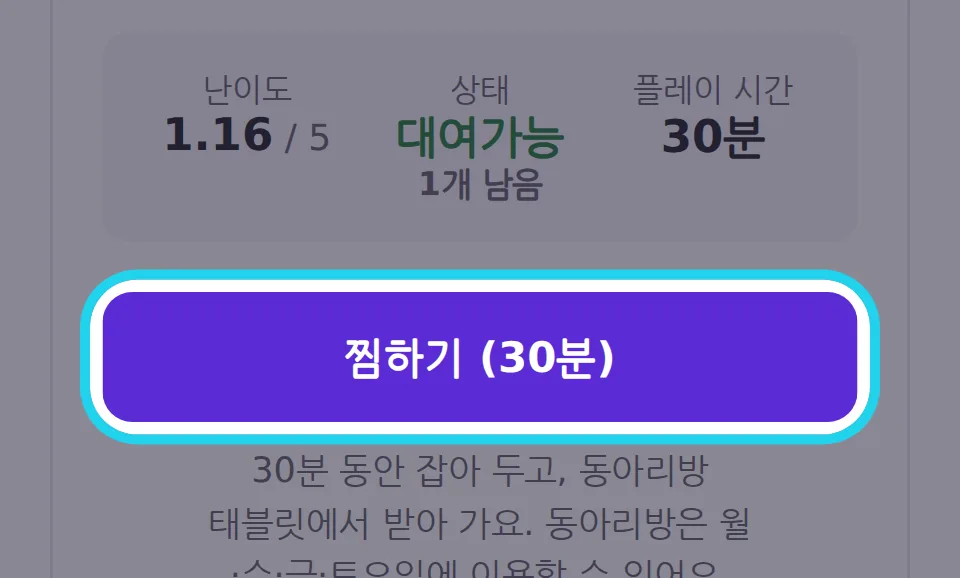
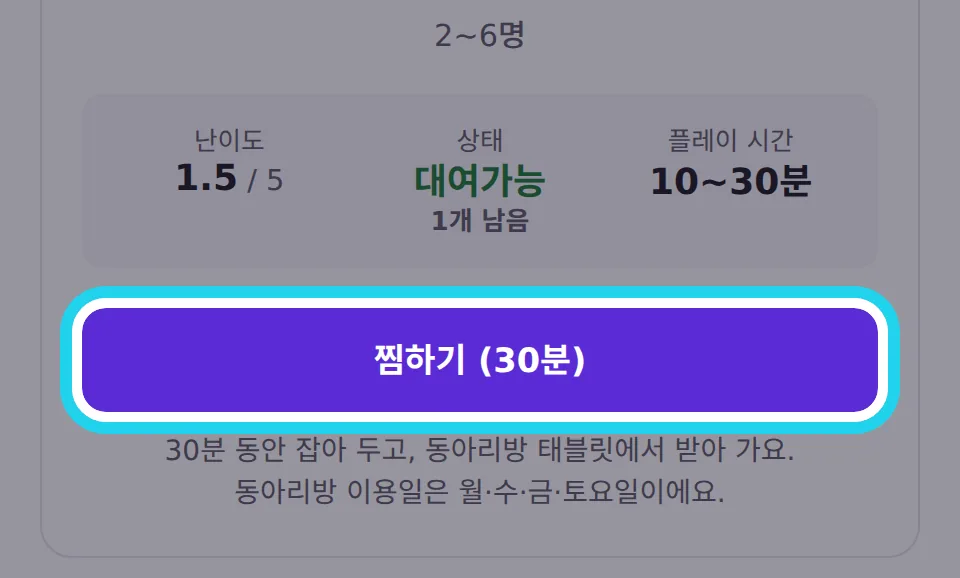
docs(tutorial): 이용법 첫 장을 홈 검색창 그림으로 · 찜 그림 재캡처 · 수령 장에 이체 캡처 인증 안내
- search.webp: 검색 페이지 대신 신입이 처음 보는 홈 검색창(💡 이용법·카테고리별로 포함)
- dibs.webp: 찜 버튼 아래 문구가 잘리던 옛 캡처를 현재 화면으로
- 회비 미납 안내에 「이체 캡처로 바로 인증」 경로 추가

diff --git a/src/components/RentalTutorial.jsx b/src/components/RentalTutorial.jsx
@@ -81,7 +81,7 @@ function RentalTutorial({ isOpen, onClose, onOpenReport }) {
             {
                 key: 'search',
                 icon: '🔍',
-                image: { src: '/tutorial/search.webp', alt: '검색 화면 맨 위의 검색창' },
+                image: { src: '/tutorial/search.webp', alt: '홈 화면의 게임 검색창' },
                 title: '게임 찾기',
                 body: (
                     <>
@@ -130,7 +130,7 @@ function RentalTutorial({ isOpen, onClose, onOpenReport }) {
                     <>
                         <p>동아리방({ROOM}) 문을 열자마자 <strong>오른쪽 책상 위 태블릿</strong>에서 「찜 수령하기」를 누르고 내 이름을 골라요.</p>
                         <p>동아리방은 <strong>{CLUB_INFO.roomDays}</strong>에 이용할 수 있어요.</p>
-                        <p><strong>회비를 낸 부원만</strong> 빌릴 수 있어요. 아직 안 냈다면 로그인한 뒤 게임 상세에서 회비 계좌를 볼 수 있어요.</p>
+                        <p><strong>회비를 낸 부원만</strong> 빌릴 수 있어요. 아직 안 냈다면 로그인한 뒤 게임 상세에서 회비 계좌로 보내고, 「이체 캡처로 바로 인증」에 이체 완료 화면을 올리면 돼요.</p>
                     </>
                 ),
             },
